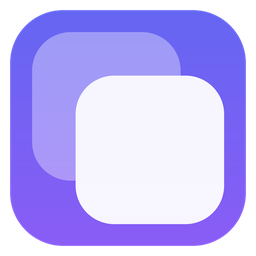
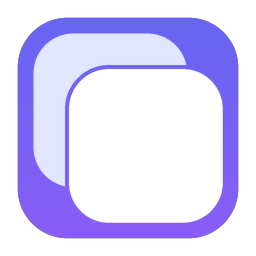
fix: читаемость иконки (контраст карт, разделитель, отступы)

diff --git a/tools/make_icon.py b/tools/make_icon.py
@@ -2,12 +2,18 @@
 
 Design (flat, restrained, matches the app theme colors from ui/components.py):
 - rounded-square tile with a vertical indigo -> violet gradient
-  (#6366F1 PRIMARY_COLOR -> #8B5CF6 ACCENT_COLOR);
-- two slightly offset overlapping rounded squares in white / semi-transparent
-  white: the "duplicate pair" metaphor (a file and its copy).
+  (#6366F1 PRIMARY_COLOR -> #8B5CF6 ACCENT_COLOR), ordered-dithered
+  (+/-1, 4x4 Bayer) to prevent 8-bit gradient banding;
+- two offset overlapping rounded cards: the "duplicate pair" metaphor.
+  The back card ("the copy") is opaque light lavender #E0E7FF (>= 3:1
+  WCAG contrast against the tile gradient), the front card ("the file")
+  is pure opaque white, and a gradient-colored gap ring around the front
+  card keeps the seam between the two cards visible.
 
-Rendered at 4x supersampling, downscaled with LANCZOS, and saved as a
-multi-size .ico (16..256) plus a 256px PNG preview.
+Shape masks are rendered at 4x supersampling and downscaled with LANCZOS
+(antialiasing); the gradient itself is generated directly at the target
+size so the dithering lands at final resolution. Saved as a multi-size
+.ico (16..256) plus a 256px PNG preview (the largest .ico frame as-is).
 
 Usage (from the project root):
     venv\\Scripts\\python tools\\make_icon.py
@@ -17,41 +23,81 @@ from __future__ import annotations
 
 from pathlib import Path
 
-from PIL import Image, ImageDraw
+from PIL import Image, ImageChops, ImageDraw
 
 # --- design constants -------------------------------------------------------
 GRADIENT_TOP = (99, 102, 241)   # #6366F1 (PRIMARY_COLOR)
 GRADIENT_BOTTOM = (139, 92, 246)  # #8B5CF6 (ACCENT_COLOR)
 
-BASE_SIZE = 512                 # logical icon canvas
-SUPERSAMPLE = 4                 # render at 4x, then downscale (antialiasing)
-CANVAS = BASE_SIZE * SUPERSAMPLE
+BASE_SIZE = 512                 # logical design canvas
+SUPERSAMPLE = 4                 # render masks at 4x, then downscale (antialiasing)
 
-TILE_MARGIN = 0.04              # tile inset from canvas edge (4%)
+TILE_MARGIN = 0.07              # tile inset from canvas edge (7%)
 TILE_RADIUS_RATIO = 0.225       # modern squircle-ish corner radius
 
-CARD_SIZE_RATIO = 0.58          # side of each "duplicate file" card
+CARD_SIZE_RATIO = 0.60          # side of each "duplicate file" card
 CARD_RADIUS_RATIO = 0.26        # card corner radius
-CARD_OFFSET_RATIO = 0.085       # how far each card shifts from the center
-CARD_BACK_ALPHA = 90            # the "copy" behind
-CARD_FRONT_ALPHA = 240          # the "file" in front
+CARD_OFFSET_RATIO = 0.07        # how far each card shifts from the center
+CARD_BACK_COLOR = (0xE0, 0xE7, 0xFF)  # #E0E7FF: light-lavender "copy" card
+CARD_BACK_ALPHA = 255           # opaque: contrast independent of the gradient
+CARD_FRONT_ALPHA = 255          # pure white "file" card
+SEAM_GAP_PX = 8                 # gradient-colored gap ring around the front
+                                # card (8px at BASE_SIZE, 4px in the 256px icon)
 
 ICO_SIZES = [16, 32, 48, 64, 128, 256]
-PREVIEW_SIZE = 256
+
+# 4x4 Bayer matrix for ordered dithering (values 0..15).
+_BAYER4: tuple[tuple[int, ...], ...] = (
+    (0, 8, 2, 10),
+    (12, 4, 14, 6),
+    (3, 11, 1, 9),
+    (15, 7, 13, 5),
+)
 
 PROJECT_ROOT = Path(__file__).resolve().parent.parent
 ASSETS_DIR = PROJECT_ROOT / "assets"
 
 
+def _bayer_noise_masks(size: int) -> tuple[Image.Image, Image.Image]:
+    """Two "L"-mode masks (1 = active cell) for +/-1 ordered noise.
+
+    The 4x4 Bayer matrix is tiled with a 4-pixel period, so the noise lands
+    on individual pixels (not on size/4 blocks).
+    """
+    plus_rows: list[list[int]] = []
+    minus_rows: list[list[int]] = []
+    for brow in _BAYER4:
+        rep, rem = divmod(size, 4)
+        tiled = list(brow) * rep + list(brow[:rem])
+        plus_rows.append([1 if v >= 8 else 0 for v in tiled])
+        minus_rows.append([0 if v >= 8 else 1 for v in tiled])
+    plus = Image.new("L", (size, size))
+    minus = Image.new("L", (size, size))
+    plus.putdata([v for y in range(size) for v in plus_rows[y & 3]])
+    minus.putdata([v for y in range(size) for v in minus_rows[y & 3]])
+    return plus, minus
+
+
 def _vertical_gradient(size: int, top: tuple[int, int, int],
                        bottom: tuple[int, int, int]) -> Image.Image:
-    """One-pixel-wide column gradient stretched to *size* x *size* (RGB)."""
+    """Vertical gradient (RGB) with +/-1 ordered dithering (4x4 Bayer).
+
+    Without dithering the 8-bit rounding of the gradient shows as flat
+    ~6-7px horizontal bands; the Bayer noise spreads the quantization
+    error over a 4px checkerboard instead.
+    """
     column = Image.new("RGB", (1, size))
     for y in range(size):
         t = y / max(size - 1, 1)
         color = tuple(round(top[i] + (bottom[i] - top[i]) * t) for i in range(3))
         column.putpixel((0, y), color)  # type: ignore[arg-type]
-    return column.resize((size, size))
+    img = column.resize((size, size))
+    plus, minus = _bayer_noise_masks(size)
+    channels = [
+        ImageChops.subtract(ImageChops.add(channel, plus), minus)
+        for channel in img.split()
+    ]
+    return Image.merge("RGB", channels)
 
 
 def _rounded_mask(size: int, inset: float, radius: float) -> Image.Image:
@@ -63,53 +109,81 @@ def _rounded_mask(size: int, inset: float, radius: float) -> Image.Image:
     return mask
 
 
+def _card_mask(canvas: int, lo: int, side: int, radius: int,
+               grow: int = 0) -> Image.Image:
+    """L-mode mask of a rounded square with top-left corner (lo, lo).
+
+    With *grow* > 0 the square is dilated by that many pixels (the corner
+    radius grows with it), producing a uniform outline ring.
+    """
+    mask = Image.new("L", (canvas, canvas), 0)
+    draw = ImageDraw.Draw(mask)
+    draw.rounded_rectangle(
+        (lo - grow, lo - grow, lo + side + grow, lo + side + grow),
+        radius=radius + grow,
+        fill=255,
+    )
+    return mask
+
+
 def build_icon(base_size: int = BASE_SIZE, supersample: int = SUPERSAMPLE) -> Image.Image:
     """Render the TwinSweeper icon at *base_size* (RGBA)."""
     canvas = base_size * supersample
+    down = (base_size, base_size)
 
-    # Gradient tile masked into a rounded square.
+    # Shape masks are drawn at supersampled resolution and downscaled with
+    # LANCZOS: flat fills stay pixel-exact inside, edges stay antialiased.
     tile_mask = _rounded_mask(
         canvas,
         inset=TILE_MARGIN,
         radius=TILE_RADIUS_RATIO * canvas * (1 - 2 * TILE_MARGIN),
-    )
-    icon = Image.new("RGBA", (canvas, canvas), (0, 0, 0, 0))
-    icon.paste(_vertical_gradient(canvas, GRADIENT_TOP, GRADIENT_BOTTOM),
-               (0, 0), tile_mask)
+    ).resize(down, Image.LANCZOS)
 
-    # Two offset overlapping "duplicate file" cards.
     card = int(canvas * CARD_SIZE_RATIO)
     card_radius = int(card * CARD_RADIUS_RATIO)
     offset = int(canvas * CARD_OFFSET_RATIO)
+    gap = max(1, round(canvas * SEAM_GAP_PX / BASE_SIZE))
     center = canvas // 2
-    overlay = Image.new("RGBA", (canvas, canvas), (0, 0, 0, 0))
-    draw = ImageDraw.Draw(overlay)
-    for dx, dy, alpha in ((-offset, -offset, CARD_BACK_ALPHA),
-                          (offset, offset, CARD_FRONT_ALPHA)):
-        lo_x, lo_y = center + dx - card // 2, center + dy - card // 2
-        draw.rounded_rectangle(
-            (lo_x, lo_y, lo_x + card, lo_y + card),
-            radius=card_radius,
-            fill=(255, 255, 255, alpha),
-        )
-    icon = Image.alpha_composite(icon, overlay)
+    back_lo = center - offset - card // 2
+    front_lo = center + offset - card // 2
 
-    return icon.resize((base_size, base_size), Image.LANCZOS)
+    back_mask = _card_mask(canvas, back_lo, card, card_radius).resize(
+        down, Image.LANCZOS)
+    outline_mask = _card_mask(canvas, front_lo, card, card_radius, grow=gap).resize(
+        down, Image.LANCZOS)
+    front_mask = _card_mask(canvas, front_lo, card, card_radius).resize(
+        down, Image.LANCZOS)
+
+    # The gradient is built at final size so the dithering lands 1:1.
+    gradient = _vertical_gradient(base_size, GRADIENT_TOP, GRADIENT_BOTTOM)
+    back_fill = Image.new("RGBA", down, (*CARD_BACK_COLOR, CARD_BACK_ALPHA))
+    front_fill = Image.new("RGBA", down, (255, 255, 255, CARD_FRONT_ALPHA))
+
+    icon = Image.new("RGBA", down, (0, 0, 0, 0))
+    icon.paste(gradient, (0, 0), tile_mask)     # gradient tile
+    icon.paste(back_fill, (0, 0), back_mask)    # opaque lavender "copy" behind
+    icon.paste(gradient, (0, 0), outline_mask)  # tile-colored gap: visible seam
+    icon.paste(front_fill, (0, 0), front_mask)  # pure white "file" in front
+    return icon
 
 
 def main() -> None:
     ASSETS_DIR.mkdir(parents=True, exist_ok=True)
-    icon = build_icon()
+
+    # Master render at the largest .ico entry size: the biggest frame keeps
+    # its full-resolution dithering, smaller frames are LANCZOS downscales
+    # of it, and the preview PNG is the very same image.
+    master = build_icon(max(ICO_SIZES))
 
     ico_path = ASSETS_DIR / "icon.ico"
-    icon.save(
+    master.save(
         ico_path,
         format="ICO",
         sizes=[(s, s) for s in ICO_SIZES],
     )
 
     preview_path = ASSETS_DIR / "icon_preview.png"
-    icon.resize((PREVIEW_SIZE, PREVIEW_SIZE), Image.LANCZOS).save(preview_path)
+    master.save(preview_path)
 
     print(f"written: {ico_path}")
     print(f"written: {preview_path}")
